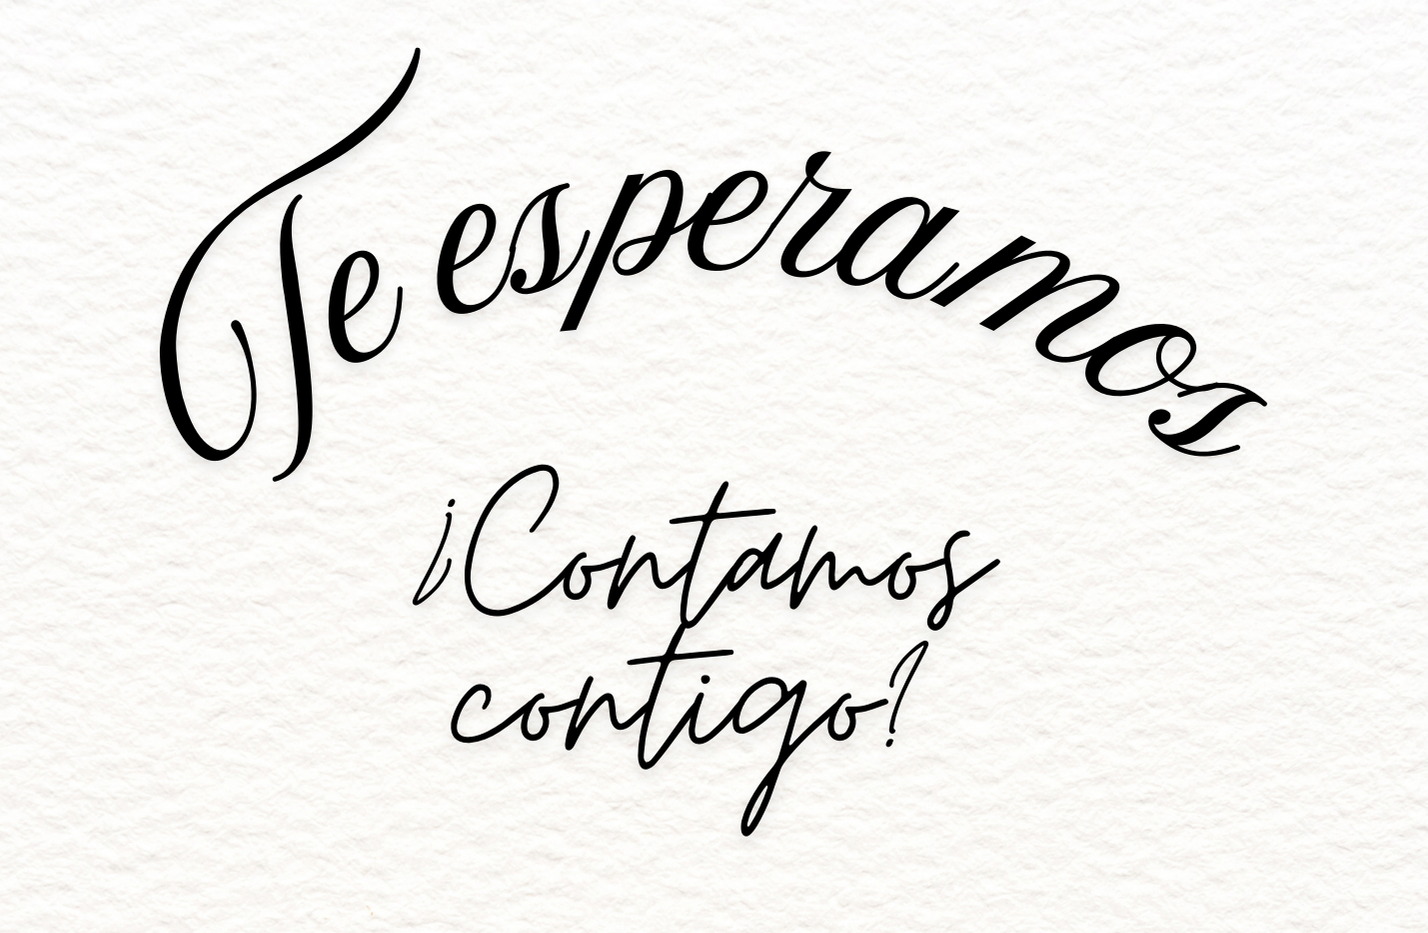
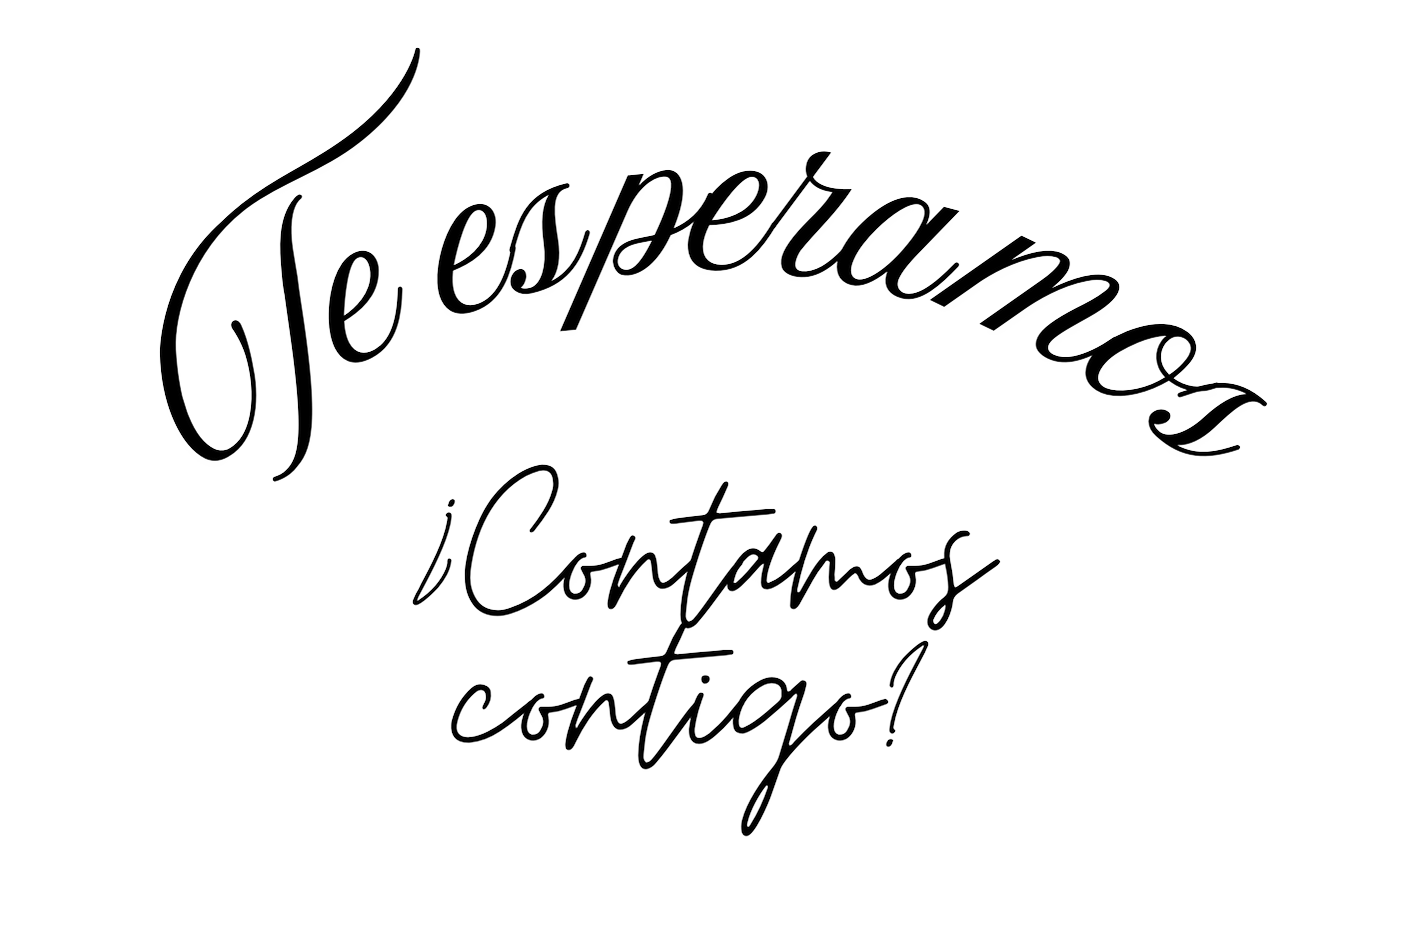
Adding footer

diff --git a/www/index.html b/www/index.html
@@ -327,7 +327,7 @@
 
   <br><br>
 
-  <img class="pre-footer" src="images/footer2.png" alt="Final img" />
+  <img class="pre-footer" src="images/footer.png" alt="Final img" />
 
   <!-- Pie de página -->
   <footer>
